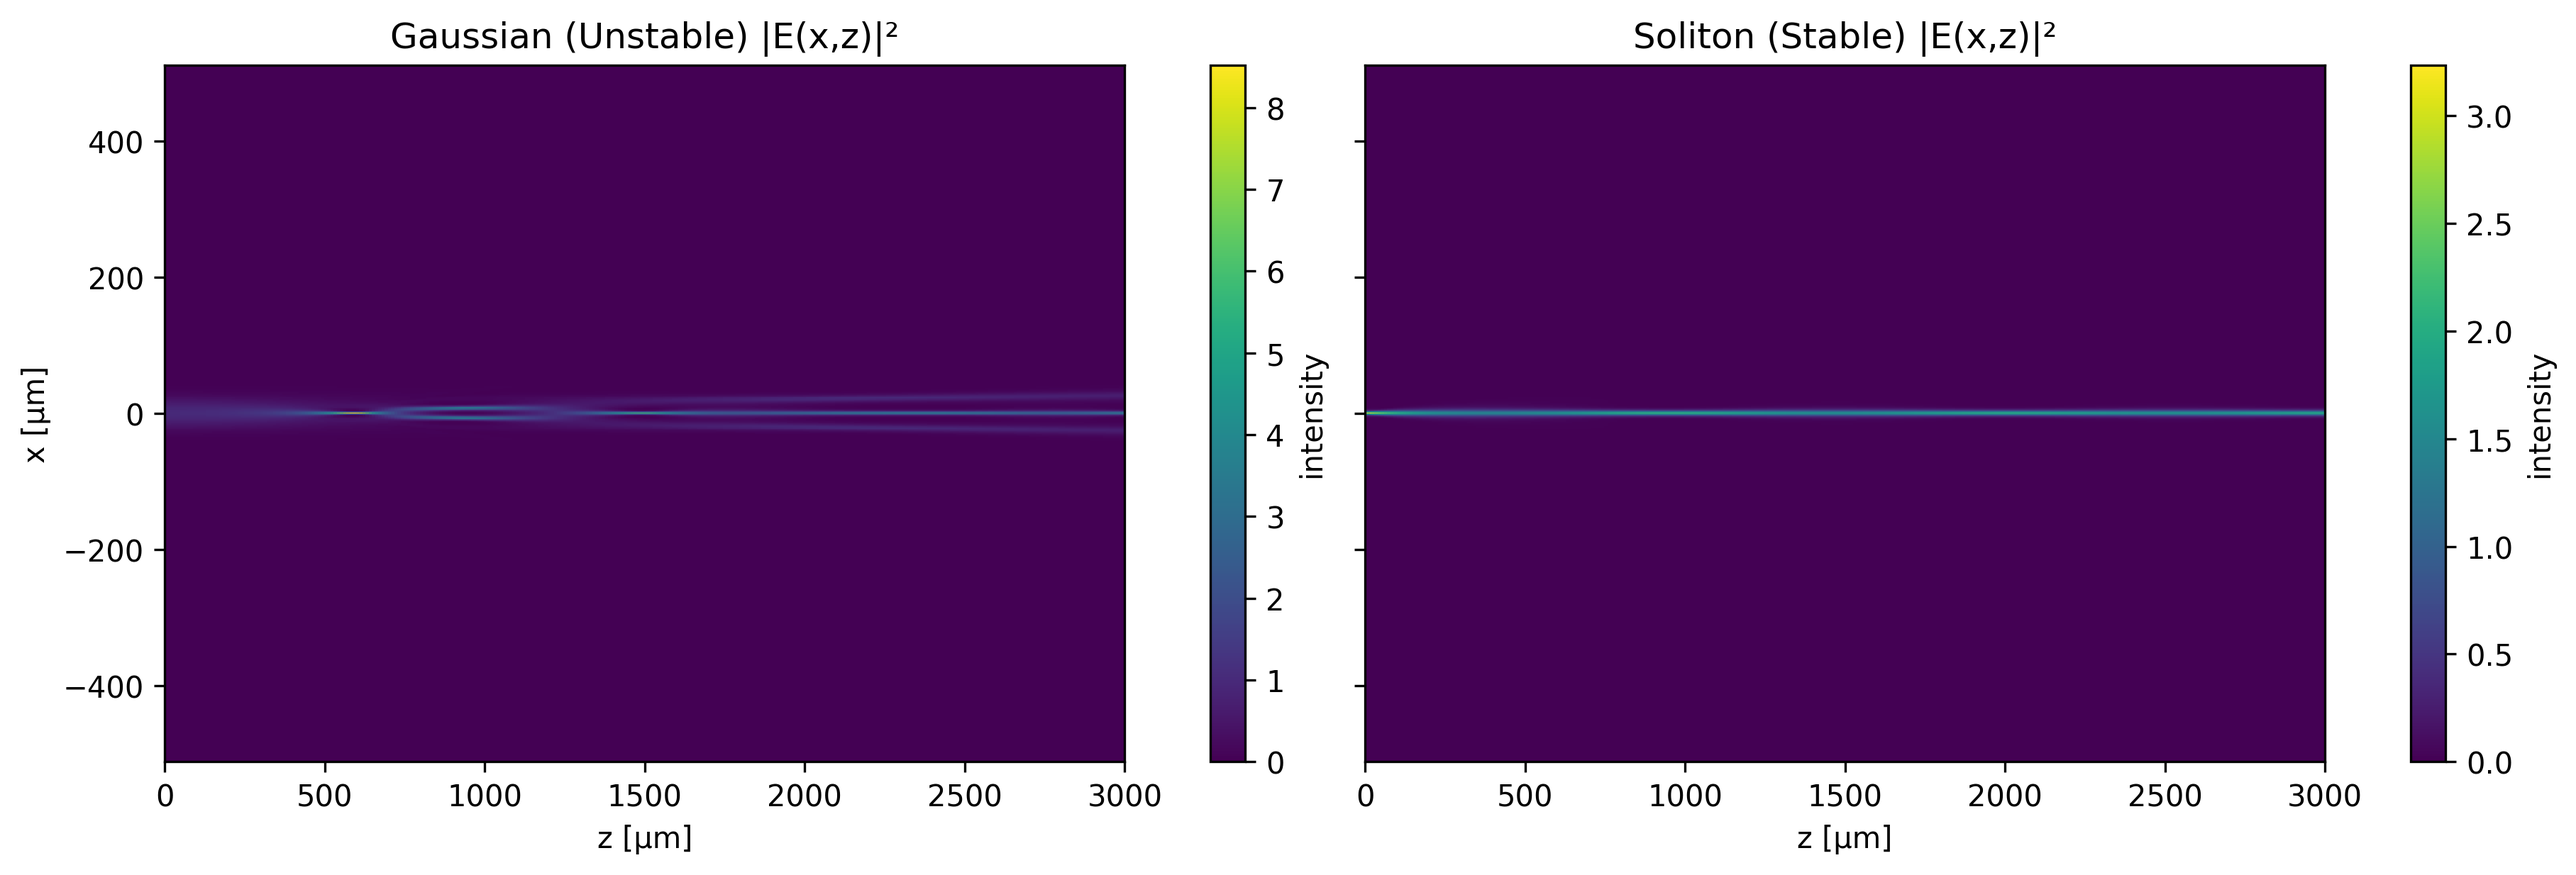
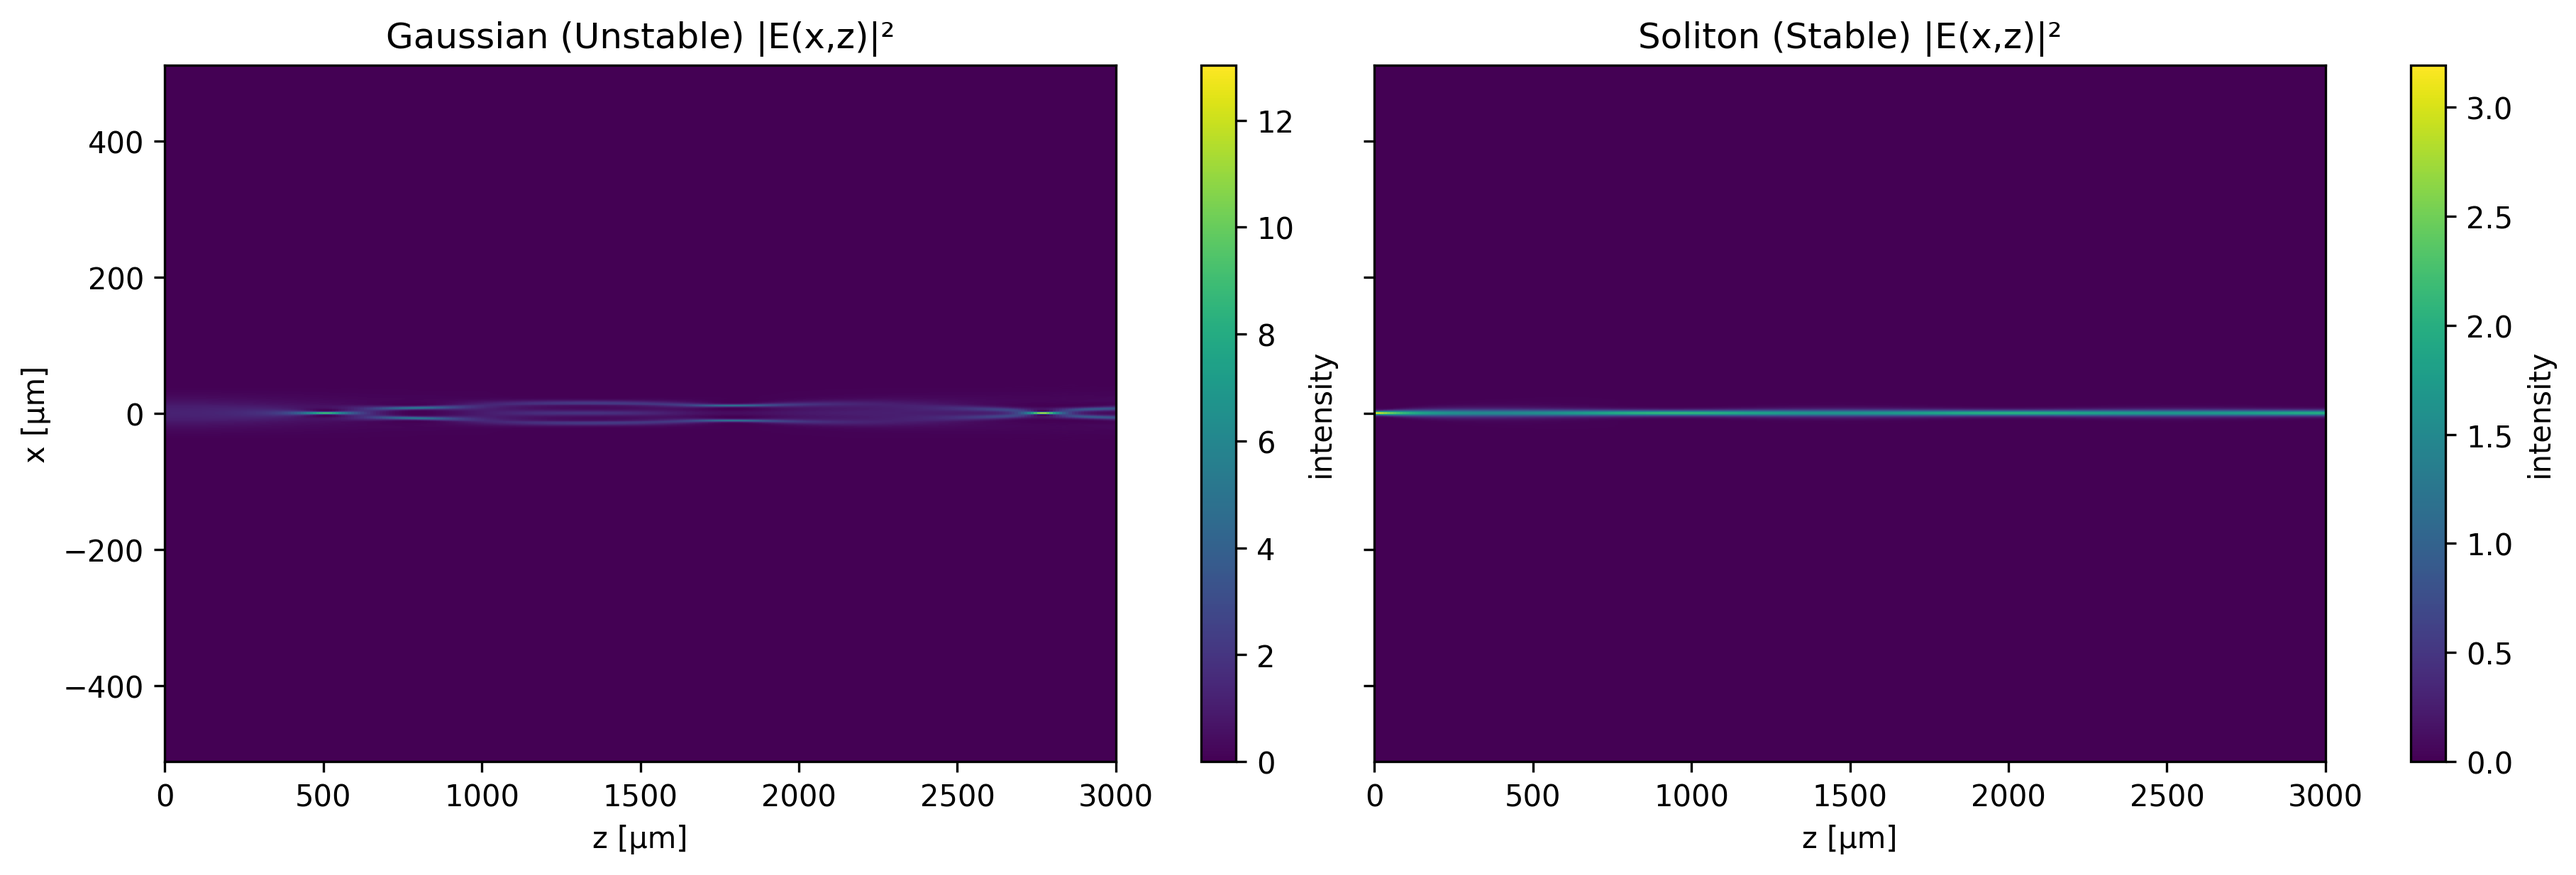
v0.1.7

diff --git a/beamprop_pkg/beamprop/utils.py b/beamprop_pkg/beamprop/utils.py
@@ -183,12 +183,12 @@ def run_one(
 def sdoOpt(build_input, dx, k, Lambda, x, Lz, bpm_obj, n2, lambda0):
     # coarse grid then refine
     cand = np.linspace(-15, +15, 121)  # degrees; set your expected range
-    best = None
+    best = (None, 0.0, None)
     for a in cand:
         frac, score, _ = run_one(
             a, build_input, propagate, dx, k, Lambda, x, Lz, bpm_obj, n2
         )
-        if (best is None) or (score > best[0]):
+        if (best[0] is None) or (score > best[0]):
             best = (score, a, frac)
 
     best_score, best_angle, best_frac = best
@@ -213,11 +213,11 @@ def sdoOpt(build_input, dx, k, Lambda, x, Lz, bpm_obj, n2, lambda0):
 def braggMismatchOptA(build_input, dx, k, Lambda, x, Lz, bpm_obj, n2):
     # minimize +1 mode
     cand = np.linspace(-15, +15, 121)  # degrees; set your expected range
-    best = None
+    best = (None, 0.0, 0.0)
     for a in cand:
         frac, *_ = run_one(a, build_input, propagate, dx, k, Lambda, x, Lz, bpm_obj, n2)
         eta1 = frac.get(+1, 0.0)
-        if (best is None) or (eta1 < best[0]):  # more negative is better
+        if (best[0] is None) or (eta1 < best[0]):  # more negative is better
             best = (eta1, a, frac)
     print(f"Bragg mismatch angle (min η+1): {best[1]}° {best[2]}")
     return best[1]
@@ -227,7 +227,7 @@ def braggMismatchOptB(build_input, dx, k, Lambda, x, Lz, bpm_obj, n2):
     # Target efficiency η_{+1} = η* (e.g., 10%): pick the angle whose frac[+1] is closest to η*
     cand = np.linspace(-15, +15, 121)  # degrees; set your expected range
     target = 0.10
-    best = None
+    best = (None, 0.0, 0.0)
     for a in cand:
         frac, *_ = run_one(a, build_input, propagate, dx, k, Lambda, x, Lz, bpm_obj, n2)
         err = abs(frac.get(+1, 0.0) - target)

diff --git a/beamprop_pkg/scripts/nls_plots.py b/beamprop_pkg/scripts/nls_plots.py
@@ -16,23 +16,30 @@ from beamprop_pkg.beamprop.absorbers import absorbing_field_1d
 base_path = Path.cwd() / "beamprop_pkg" / "out"
 out_png = base_path / "nls.png"
 log_flag = False
+xConf = "B"
 
 
 # define physical constants
 lambda0 = 1e-6
 k0 = 2 * np.pi / lambda0
-Nx = 1024 + 1
+if xConf == "A":
+    Nx = 512 + 1
+    dx = 2e-6
+elif xConf == "B":
+    Nx = 1024 + 1
+    dx = 1e-6
 Nz = 300 + 1
-dx = 1e-6
 dz = 10e-6
 Lx = dx * (Nx - 1)
 Lz = dz * (Nz - 1)
 wAbs: int = 40  # number of points to include at the edges of absorber
-gamma = 0.15  # strength of absorber at the boundary [0.0, 1.0]
+gamma = 1.0  # strength of absorber at the boundary [0.0, 1.0]
 n2 = 1e-3  # strength of nonlinearity
 w_gauss = 30e-6  # width of Gaussian input beam
 n_glass = 1.5
 k = n_glass * k0
+Efactor = 1.105  #  np.sqrt(2.5 / 8.5) # factor matches node spacing from homework, physical behavior is different???
+# n2 /= Efactor * Efactor
 
 
 # create grids
@@ -48,7 +55,7 @@ assert np.isclose(dz, dz__)
 # create 2D refractive index inhomogeneity mesh grid
 # same dimensions as X, Z
 nIN = np.zeros(X.shape)
-nRef = np.ones(X.shape)  #  * n_glass
+nRef = np.ones(X.shape)  # * n_glass
 
 
 # create input fields
@@ -63,6 +70,7 @@ E0_soliton = soliton_profile(x, k, k0, n2, kappa)
 # Ps = np.trapezoid(np.abs(E0_soliton) ** 2, x)
 # E0_gauss *= np.sqrt(Ps / Pg)
 # E0_gauss *= np.sqrt(2.5 / 5.7)
+E0_gauss *= Efactor
 
 
 # perform unstable propagation

diff --git a/beamprop_pkg/beamprop/version.py b/beamprop_pkg/beamprop/version.py
@@ -1,1 +1,1 @@
-__version__ = "0.1.6"
+__version__ = "0.1.7"
